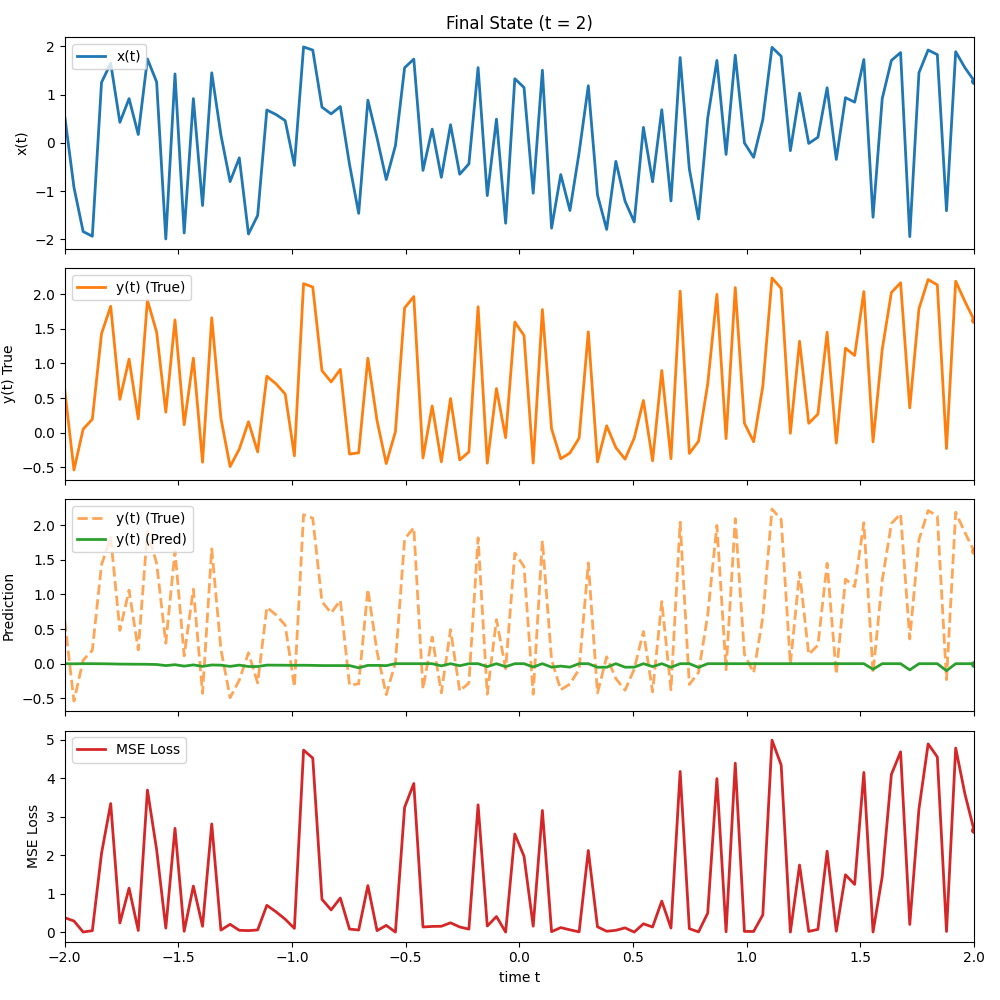
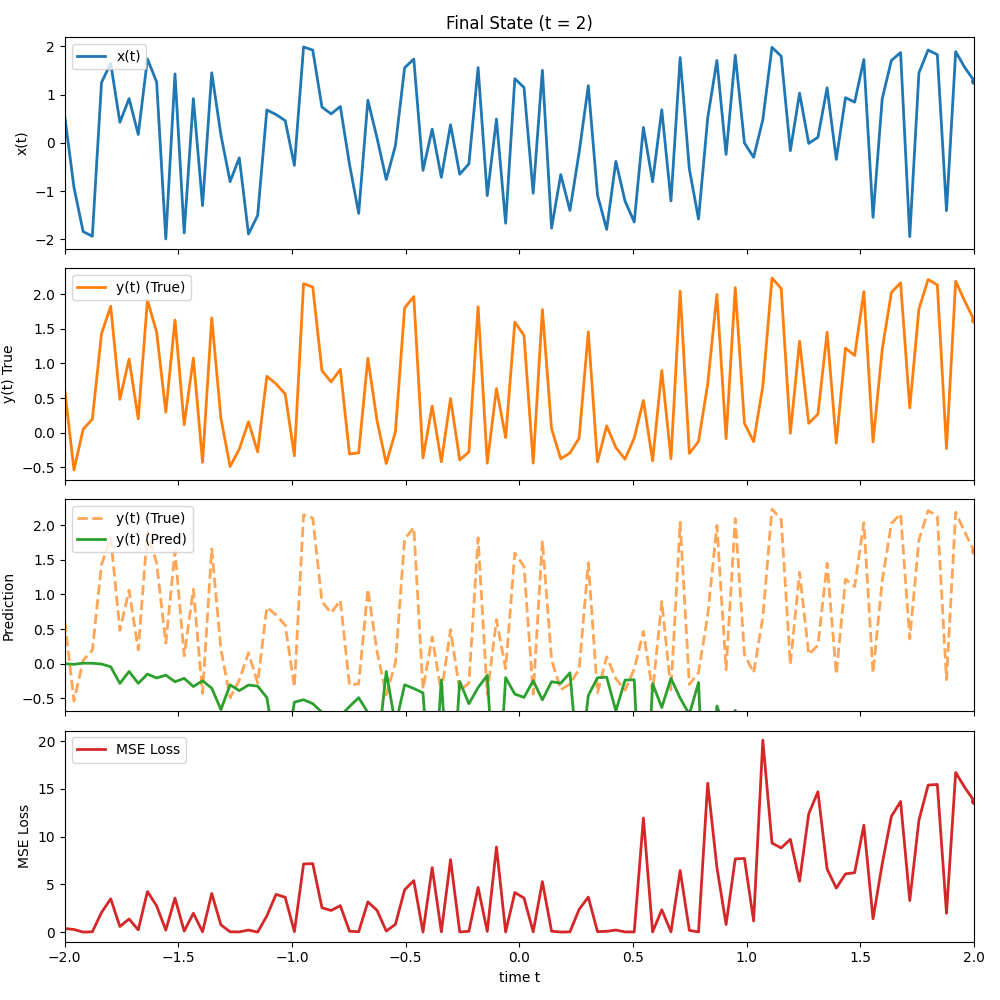
it's updating something ...

diff --git a/demos/function_tracking/eclair_model/firmware/components.h b/demos/function_tracking/eclair_model/firmware/components.h
@@ -1,6 +1,7 @@
 #ifndef COMPONENTS_H_
 #define COMPONENTS_H_
 
+#include <iostream>
 #include "parameters.h"
 #include "defines.h"
 
@@ -26,7 +27,27 @@ static inline void cell_index_and_local_u(weight_t x, int &k, weight_t &u){
 }
 
 template<int IN_DIM, int OUT_DIM>
-inline void forward_layer(const weight_t x[IN_DIM], weight_t y[OUT_DIM], const LayerParams<IN_DIM, OUT_DIM> &L){
+inline void forward_layer(
+    const weight_t x[IN_DIM], 
+    weight_t y[OUT_DIM], 
+    const LayerParams<IN_DIM, OUT_DIM> &L,
+    LayerContext<IN_DIM, OUT_DIM> &C
+){
+
+    std::cout << "Running forward pass: " << std::endl;
+    std::cout << "Current parameters: " << std::endl;
+    for (int o = 0; o < OUT_DIM; o++) {
+        for (int i = 0; i < IN_DIM; i++) {
+            std::cout << "W[" << o << "][" << i << "] = " << L.Ws[o][i][0] << std::endl;
+        }
+    }
+    std::cout << std::endl;
+
+    std::cout << "Current HLS input: " << std::endl;
+    for (int i = 0; i < IN_DIM; i++) {
+        std::cout << "x[" << i << "] = " << x[i] << std::endl;
+    }
+    std::cout << std::endl;
 
     // Compute for each output node
     ACCUM_O:
@@ -44,8 +65,15 @@ inline void forward_layer(const weight_t x[IN_DIM], weight_t y[OUT_DIM], const L
             weight_t u;   // [0,1]
             cell_index_and_local_u(xi, k, u);
 
+            std::cout << "Current input: " << xi << std::endl;
+            std::cout << "Cell index: " << k << ", Local u: " << u << std::endl;
+
             //Get the index for the activation function look up
             const int ui = u * (weight_t)(LUT_RESOLUTION - 1) + weight_t(0.5);
+            
+            //store the context
+            C.k[o][i] = k;
+            C.u_index[o][i] = ui;
 
             //spline-lookup
             weight_t b0 = LUT.B0[ui];
@@ -68,6 +96,29 @@ inline void backward_input_output( //Whhen the layer is connected to both the in
     const LayerContext<IN_DIM, OUT_DIM> &C, // Forward-pass context for this layer's input
     const output_t dL_dy[OUT_DIM] // Upstream gradie
 ){
+    std::cout << "Running backward pass: " << std::endl;
+    std::cout << "Current parameters: " << std::endl;
+    for (int o = 0; o < OUT_DIM; o++) {
+        for (int i = 0; i < IN_DIM; i++) {
+            std::cout << "W[" << o << "][" << i << "] = " << L.Ws[o][i][0] << std::endl;
+        }
+    }
+    std::cout << std::endl;
+
+    std::cout << "Current context: " << std::endl;
+    for (int o = 0; o < OUT_DIM; o++) {
+        for (int i = 0; i < IN_DIM; i++) {
+            std::cout << "k[" << o << "][" << i << "] = " << C.k[o][i] << std::endl;
+        }
+    }
+    std::cout << std::endl;
+
+    std::cout << "Current upstream gradient: " << std::endl;
+    for (int o = 0; o < OUT_DIM; o++) {
+        std::cout << "dL_dy[" << o << "] = " << dL_dy[o] << std::endl;
+    }
+    std::cout << std::endl;
+
     for (int o = 0; o < OUT_DIM; o++) {
         #pragma HLS UNROLL
         weight_t dL_dy_o = dL_dy[o]; // Get upstream grad for this output

diff --git a/src/templates/components.h b/src/templates/components.h
@@ -1,6 +1,7 @@
 #ifndef COMPONENTS_H_
 #define COMPONENTS_H_
 
+#include <iostream>
 #include "parameters.h"
 #include "defines.h"
 
@@ -26,7 +27,27 @@ static inline void cell_index_and_local_u(weight_t x, int &k, weight_t &u){
 }
 
 template<int IN_DIM, int OUT_DIM>
-inline void forward_layer(const weight_t x[IN_DIM], weight_t y[OUT_DIM], const LayerParams<IN_DIM, OUT_DIM> &L){
+inline void forward_layer(
+    const weight_t x[IN_DIM], 
+    weight_t y[OUT_DIM], 
+    const LayerParams<IN_DIM, OUT_DIM> &L,
+    LayerContext<IN_DIM, OUT_DIM> &C
+){
+
+    std::cout << "Running forward pass: " << std::endl;
+    std::cout << "Current parameters: " << std::endl;
+    for (int o = 0; o < OUT_DIM; o++) {
+        for (int i = 0; i < IN_DIM; i++) {
+            std::cout << "W[" << o << "][" << i << "] = " << L.Ws[o][i][0] << std::endl;
+        }
+    }
+    std::cout << std::endl;
+
+    std::cout << "Current HLS input: " << std::endl;
+    for (int i = 0; i < IN_DIM; i++) {
+        std::cout << "x[" << i << "] = " << x[i] << std::endl;
+    }
+    std::cout << std::endl;
 
     // Compute for each output node
     ACCUM_O:
@@ -44,8 +65,15 @@ inline void forward_layer(const weight_t x[IN_DIM], weight_t y[OUT_DIM], const L
             weight_t u;   // [0,1]
             cell_index_and_local_u(xi, k, u);
 
+            std::cout << "Current input: " << xi << std::endl;
+            std::cout << "Cell index: " << k << ", Local u: " << u << std::endl;
+
             //Get the index for the activation function look up
             const int ui = u * (weight_t)(LUT_RESOLUTION - 1) + weight_t(0.5);
+            
+            //store the context
+            C.k[o][i] = k;
+            C.u_index[o][i] = ui;
 
             //spline-lookup
             
@@ -64,6 +92,29 @@ inline void backward_input_output( //Whhen the layer is connected to both the in
     const LayerContext<IN_DIM, OUT_DIM> &C, // Forward-pass context for this layer's input
     const output_t dL_dy[OUT_DIM] // Upstream gradie
 ){
+    std::cout << "Running backward pass: " << std::endl;
+    std::cout << "Current parameters: " << std::endl;
+    for (int o = 0; o < OUT_DIM; o++) {
+        for (int i = 0; i < IN_DIM; i++) {
+            std::cout << "W[" << o << "][" << i << "] = " << L.Ws[o][i][0] << std::endl;
+        }
+    }
+    std::cout << std::endl;
+
+    std::cout << "Current context: " << std::endl;
+    for (int o = 0; o < OUT_DIM; o++) {
+        for (int i = 0; i < IN_DIM; i++) {
+            std::cout << "k[" << o << "][" << i << "] = " << C.k[o][i] << std::endl;
+        }
+    }
+    std::cout << std::endl;
+
+    std::cout << "Current upstream gradient: " << std::endl;
+    for (int o = 0; o < OUT_DIM; o++) {
+        std::cout << "dL_dy[" << o << "] = " << dL_dy[o] << std::endl;
+    }
+    std::cout << std::endl;
+
     for (int o = 0; o < OUT_DIM; o++) {
         #pragma HLS UNROLL
         weight_t dL_dy_o = dL_dy[o]; // Get upstream grad for this output

diff --git a/demos/function_tracking/train.py b/demos/function_tracking/train.py
@@ -126,7 +126,7 @@ config = {
     #Others
     'lut_resolution': 256, #How many entries for storing bases values in LUTs
     'model_name': 'eclair_model',
-    'learning_rate': 0.01
+    'learning_rate': 0.1
 
 }
 
@@ -141,10 +141,13 @@ mse_loss_series = []
 
 for i in range(len(t_series)):
 
-    t, x, y = t_series[i], x_series[i], y_series[i]
+    print("Iteration ", i)
 
+    t, x, y = t_series[i], x_series[i], y_series[i]
+    print("Current Python input: ", [x, t])
     pred = model.update([x, t], feedback_stream[-1])
     y_pred_series.append(pred)
+    print("--------------------------------")
 
     mse_loss = np.mean((y - pred)**2)
     mse_loss_series.append(mse_loss)

diff --git a/src/eclair.py b/src/eclair.py
@@ -265,7 +265,7 @@ class EclairKAN:
             output_var = self.layer_vars[layer_i + 1]
 
             if output_var != 'output': variable_definitions.append(f"    weight_t {output_var}[{out_dim}];\n") 
-            forward_pass.append(f"    forward_layer<{in_dim}, {out_dim}>({input_var}, {output_var}, P.L{layer_i});\n")
+            forward_pass.append(f"    forward_layer<{in_dim}, {out_dim}>({input_var}, {output_var}, P.L{layer_i}, C.C{layer_i});\n")
 
         variable_definitions = "".join(variable_definitions)
         forward_pass = "".join(forward_pass)

diff --git a/demos/function_tracking/eclair_model/firmware/bridge.cpp b/demos/function_tracking/eclair_model/firmware/bridge.cpp
@@ -5,6 +5,7 @@
 * It internally casts to the HLS types and calls the 'top' function.
 */
 
+#include <iostream>
 #include "defines.h"
 #include "parameters.h"
 #include "eclair.h"        
@@ -38,8 +39,6 @@ extern "C" {
         }
 
         // --- Call the HLS function ---
-        // This runs the forward/backward pass.
-        // It writes its result into 'hls_output'.
         eclair(hls_input, hls_output, hls_feedback);
         
         // --- Cast and copy output data back ---

diff --git a/src/templates/bridge.cpp b/src/templates/bridge.cpp
@@ -5,6 +5,7 @@
 * It internally casts to the HLS types and calls the 'top' function.
 */
 
+#include <iostream>
 #include "defines.h"
 #include "parameters.h"
 #include "eclair.h"        
@@ -38,8 +39,6 @@ extern "C" {
         }
 
         // --- Call the HLS function ---
-        // This runs the forward/backward pass.
-        // It writes its result into 'hls_output'.
         eclair(hls_input, hls_output, hls_feedback);
         
         // --- Cast and copy output data back ---

diff --git a/demos/function_tracking/eclair_model/firmware/eclair.cpp b/demos/function_tracking/eclair_model/firmware/eclair.cpp
@@ -14,6 +14,6 @@ void eclair(const input_t input[INPUT_DIM], output_t output[OUTPUT_DIM], const o
     //variable-definitions
 
     //forward-pass
-    forward_layer<INPUT_DIM, OUTPUT_DIM>(input, output, P.L0);
+    forward_layer<INPUT_DIM, OUTPUT_DIM>(input, output, P.L0, C.C0);
 
 }

diff --git a/demos/function_tracking/eclair_model/firmware/defines.h b/demos/function_tracking/eclair_model/firmware/defines.h
@@ -26,6 +26,6 @@ static const weight_t H = weight_t(0.4);
 static const weight_t INV_H = weight_t(2.5);
 
 // LEARNING RATE
-static const weight_t LR = weight_t(0.01);
+static const weight_t LR = weight_t(0.1);
 
 #endif
